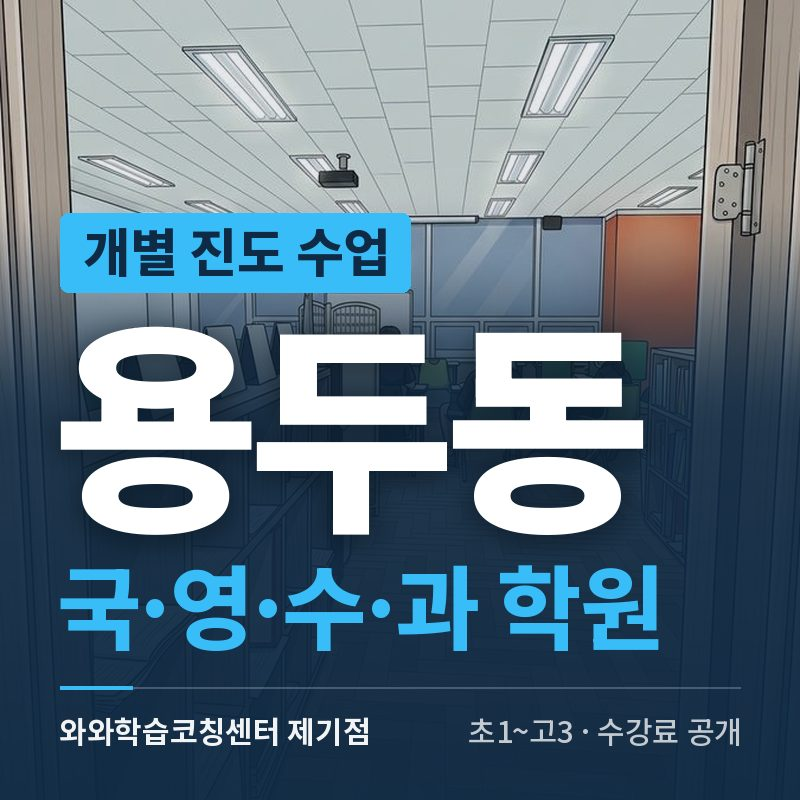
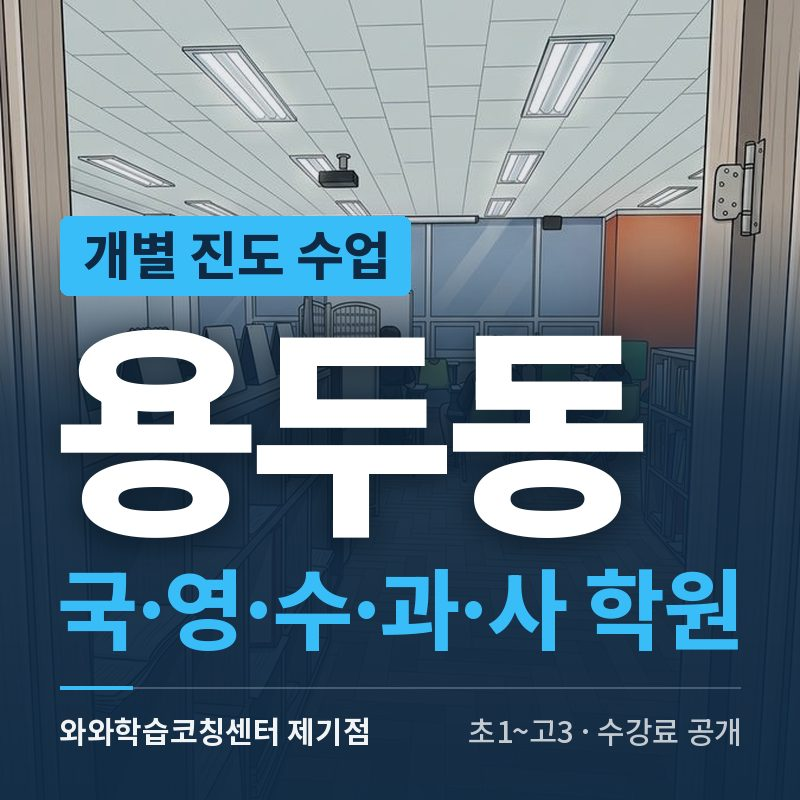
썸네일 시험 배너 7장을 10-27 지점 데이터에 맞춤 — 두호동·광명동 학년 고3 → 고2 등
- 10-27 기준본 갱신(학년·과목 14곳) 뒤 시험군 배너 7장이 기준본과 어긋났다
  · 두호동(두호점)·광명동(광명점): 학년 초4~고3·초1~고3 → 초4~고2·초1~고2 (배너가 없는 학년을 적고 있었음)
  · 마곡동·상동·운양동·용두동: 기준본에 과목이 늘어 과목 줄 갱신 / 신정동: 학년 초4~고3 → 초1~고3
- 시험군·비교군 배정은 그대로(_thumb_test.json), 나머지 81장 그림은 바이트까지 같음
- _thumb_test.js: 이미 배너가 있는 페이지도 다시 돌리면 배너 img 한 줄(alt)만 새로 바꿈, 이름 바뀐 지점은 기준본 aliases 로 찾음

diff --git a/seoul/gangseo/dong/마곡동/index.html b/seoul/gangseo/dong/마곡동/index.html
@@ -207,7 +207,7 @@
   </table><div class="fee-legal"><span><b>내발산점</b> 내발산점와와학습코칭학원(강서양천교육지원청 등록 제 5444호)</span><span>1회 수업 시간: 초등 90분, 중등 90분, 고등 90분</span><span><a class="fee-doc-link" href="https://drive.google.com/file/d/11YzP9rk79EIe6Vi8gsQaz05Yz73kROaA/view?usp=sharing" target="_blank" rel="noopener" style="color:#0369A1;font-weight:700;text-decoration:none;">교습비 공시 자료</a> · <a href="../../naebalsan/#fee" style="color:#0369A1;font-weight:700;text-decoration:none;">내발산점 수강료 안내</a></span></div><div class="fee-legal"><span><b>신방화점</b> 신방화점와와학습코칭학원(강서양천교육지원청 등록 제 5879호)</span><span>1회 수업 시간: 초등 90분, 중등 90분, 고등 90분</span><span><a class="fee-doc-link" href="https://drive.google.com/file/d/1ZQGHf_JiGE50Qks_3e4jTCpL2f_r-PvP/view?usp=sharing" target="_blank" rel="noopener" style="color:#0369A1;font-weight:700;text-decoration:none;">교습비 공시 자료</a> · <a href="../../sinbanghwa/#fee" style="color:#0369A1;font-weight:700;text-decoration:none;">신방화점 수강료 안내</a></span></div></div></section>
 
 <!-- 하단 CTA: 한 번 더 -->
-<!-- WAWA_ILLUST_START --><section style="max-width:960px;margin:0 auto;padding:8px 20px 26px;"><img src="https://wcoachingcenter.com/assets/banner/seoul-gangseo-%EB%A7%88%EA%B3%A1%EB%8F%99.jpg" alt="마곡동 영어·수학·사회 학원 와와학습코칭센터 신방화점 개별 진도 수업 안내 (초1~고3 · 수강료 공개)" width="800" height="800" loading="lazy" style="width:100%;max-width:420px;border-radius:14px;display:block;margin:0 auto;"></section><!-- WAWA_ILLUST_END -->
+<!-- WAWA_ILLUST_START --><section style="max-width:960px;margin:0 auto;padding:8px 20px 26px;"><img src="https://wcoachingcenter.com/assets/banner/seoul-gangseo-%EB%A7%88%EA%B3%A1%EB%8F%99.jpg" alt="마곡동 국어·영어·수학·과학·사회 학원 와와학습코칭센터 신방화점 개별 진도 수업 안내 (초1~고3 · 수강료 공개)" width="800" height="800" loading="lazy" style="width:100%;max-width:420px;border-radius:14px;display:block;margin:0 auto;"></section><!-- WAWA_ILLUST_END -->
 <section style="background:linear-gradient(135deg,#0369A1,#075985);padding:40px 20px;text-align:center;color:#fff;">
   <h3 style="font-size:22px;font-weight:900;margin-bottom:10px;text-wrap:balance;word-break:keep-all;">마곡동에서 와와학습코칭센터를 만나보세요</h3>
   <p style="font-size:14px;opacity:0.9;margin-bottom:20px;text-wrap:balance;word-break:keep-all;">학습 진단부터 학교 시험 대비까지 무료 상담으로 안내해 드립니다.</p>

diff --git a/gyeonggi/bucheon/dong/상동/index.html b/gyeonggi/bucheon/dong/상동/index.html
@@ -207,7 +207,7 @@
   </table><div class="fee-legal"><span><b>반달점</b> 반달점와와학습코칭보습학원(부천교육지원청 등록 제6730호)</span><span>1회 수업 시간: 초등 85분, 중등 80분, 고등 80분</span><span><a class="fee-doc-link" href="https://drive.google.com/file/d/1xQiE1pOWaG1w2Xf0REQTXDaMuoiIe8OI/view?usp=sharing" target="_blank" rel="noopener" style="color:#0369A1;font-weight:700;text-decoration:none;">교습비 공시 자료</a> · <a href="../../bandal/#fee" style="color:#0369A1;font-weight:700;text-decoration:none;">반달점 수강료 안내</a></span></div><div class="fee-legal"><span><b>상동점</b> 와와학습코칭상동보습학원(부천교육지원청 등록 제5950호)</span><span>1회 수업 시간: 초등 75분, 중등 75분, 고등 75분</span><span><a class="fee-doc-link" href="https://drive.google.com/file/d/1yst4sIxuIJJrqJRlxcIsu52h8D3xsPIC/view?usp=drive_link" target="_blank" rel="noopener" style="color:#0369A1;font-weight:700;text-decoration:none;">교습비 공시 자료</a> · <a href="../../sangdong/#fee" style="color:#0369A1;font-weight:700;text-decoration:none;">상동점 수강료 안내</a></span></div></div></section>
 
 <!-- 하단 CTA: 한 번 더 -->
-<!-- WAWA_ILLUST_START --><section style="max-width:960px;margin:0 auto;padding:8px 20px 26px;"><img src="https://wcoachingcenter.com/assets/banner/gyeonggi-bucheon-%EC%83%81%EB%8F%99.jpg" alt="상동 영어·수학·과학 학원 와와학습코칭센터 반달점 개별 진도 수업 안내 (초1~고2 · 수강료 공개)" width="800" height="800" loading="lazy" style="width:100%;max-width:420px;border-radius:14px;display:block;margin:0 auto;"></section><!-- WAWA_ILLUST_END -->
+<!-- WAWA_ILLUST_START --><section style="max-width:960px;margin:0 auto;padding:8px 20px 26px;"><img src="https://wcoachingcenter.com/assets/banner/gyeonggi-bucheon-%EC%83%81%EB%8F%99.jpg" alt="상동 국어·영어·수학·과학 학원 와와학습코칭센터 반달점 개별 진도 수업 안내 (초1~고2 · 수강료 공개)" width="800" height="800" loading="lazy" style="width:100%;max-width:420px;border-radius:14px;display:block;margin:0 auto;"></section><!-- WAWA_ILLUST_END -->
 <section style="background:linear-gradient(135deg,#0369A1,#075985);padding:40px 20px;text-align:center;color:#fff;">
   <h3 style="font-size:22px;font-weight:900;margin-bottom:10px;text-wrap:balance;word-break:keep-all;">상동에서 와와학습코칭센터를 만나보세요</h3>
   <p style="font-size:14px;opacity:0.9;margin-bottom:20px;text-wrap:balance;word-break:keep-all;">학습 진단부터 학교 시험 대비까지 무료 상담으로 안내해 드립니다.</p>

diff --git a/_thumb_test.js b/_thumb_test.js
@@ -51,7 +51,8 @@ function readFacts(p) {
   const html = fs.readFileSync(path.join(ROOT, p.rel, 'index.html'), 'utf8');
   const title = (html.match(/<title>([^<]*)<\/title>/) || [])[1] || '';
   const branch = (title.match(/와와학습코칭센터\s+(\S+점)\s*$/) || [])[1] || '';
-  const src = BRANCHES[branch];
+  // 이름이 바뀐 지점은 기준본 aliases 로 찾는다(2026-10-27 마포2호점 → 마포점)
+  const src = BRANCHES[branch] || Object.values(BRANCHES).find((b) => (b.aliases || []).includes(branch));
   const pageLine = (html.match(/<div class="info-label">수강 가능 과목<\/div>\s*<div class="info-value">([^<]*)<\/div>/) || [])[1] || '';
   const pageSubj = SUBJ_ORDER.filter((s) => pageLine.includes(s));
   const subjects = src ? SUBJ_ORDER.filter((s) => (src.subjects || []).includes(s) && (!pageSubj.length || pageSubj.includes(s))) : [];
@@ -119,10 +120,17 @@ function apply(repo) {
     const f = path.join(repo, t.rel, 'index.html');
     if (!fs.existsSync(f)) { miss.push(t.rel + ' (파일 없음)'); continue; }
     let html = fs.readFileSync(f, 'utf8');
-    if (html.includes('assets/banner/')) continue; // 이미 적용됨(다시 돌려도 그대로)
     // 한글 파일 이름은 퍼센트 인코딩해서 넣는다 — GitHub Pages 는 인코딩 안 된 UTF-8 경로 요청에 400 을 준다(배포 전 검수에서 실측)
     const url = encodeURI(`${DOMAIN}/${t.banner}`);
     const img = `<img src="${url}" alt="${t.text.alt}" width="800" height="800" loading="lazy" style="width:100%;max-width:420px;border-radius:14px;display:block;margin:0 auto;">`;
+    if (html.includes('assets/banner/')) {
+      // 이미 적용된 페이지는 배너 img 한 줄만 새 alt 로 바꾼다(기준본 과목·학년이 바뀌어 다시 돌릴 때 — 2026-10-27 지점 데이터 갱신 뒤 7장)
+      const re = new RegExp(`<img src="${url.replace(/[.*+?^${}()|[\]\\]/g, '\\$&')}"[^>]*>`);
+      if (!re.test(html)) { miss.push(t.rel + ' (배너 줄 못 찾음)'); continue; }
+      const next = html.replace(re, img);
+      if (next !== html) { fs.writeFileSync(f, next, 'utf8'); n++; }
+      continue;
+    }
     const before = html;
     html = html.replace(/(<!-- WAWA_ILLUST_START -->[\s\S]*?)<img [^>]*>([\s\S]*?<!-- WAWA_ILLUST_END -->)/, `$1${img}$2`);
     html = html.replace(/<meta property="og:image" content="[^"]*">/, `<meta property="og:image" content="${url}">\n<meta property="og:image:width" content="800">\n<meta property="og:image:height" content="800">`);

diff --git a/seoul/dongdaemun/dong/용두동/index.html b/seoul/dongdaemun/dong/용두동/index.html
@@ -183,7 +183,7 @@
   </table><div class="fee-legal"><span><b>제기점</b> 제기와와학습코칭학원(서울동부교육지원청 등록 제 3066호)</span><span>1회 수업 시간: 초등 105분, 중등 100분, 고등 105분</span><span><a class="fee-doc-link" href="https://drive.google.com/file/d/1HMDq2VEK8bG03OKmK1A3iDGqshrc34_F/view?usp=sharing" target="_blank" rel="noopener" style="color:#0369A1;font-weight:700;text-decoration:none;">교습비 공시 자료</a> · <a href="../../jegi/#fee" style="color:#0369A1;font-weight:700;text-decoration:none;">제기점 수강료 안내</a></span></div></div></section>
 
 <!-- 하단 CTA: 한 번 더 -->
-<!-- WAWA_ILLUST_START --><section style="max-width:960px;margin:0 auto;padding:8px 20px 26px;"><img src="https://wcoachingcenter.com/assets/banner/seoul-dongdaemun-%EC%9A%A9%EB%91%90%EB%8F%99.jpg" alt="용두동 국어·영어·수학·과학 학원 와와학습코칭센터 제기점 개별 진도 수업 안내 (초1~고3 · 수강료 공개)" width="800" height="800" loading="lazy" style="width:100%;max-width:420px;border-radius:14px;display:block;margin:0 auto;"></section><!-- WAWA_ILLUST_END -->
+<!-- WAWA_ILLUST_START --><section style="max-width:960px;margin:0 auto;padding:8px 20px 26px;"><img src="https://wcoachingcenter.com/assets/banner/seoul-dongdaemun-%EC%9A%A9%EB%91%90%EB%8F%99.jpg" alt="용두동 국어·영어·수학·과학·사회 학원 와와학습코칭센터 제기점 개별 진도 수업 안내 (초1~고3 · 수강료 공개)" width="800" height="800" loading="lazy" style="width:100%;max-width:420px;border-radius:14px;display:block;margin:0 auto;"></section><!-- WAWA_ILLUST_END -->
 <section style="background:linear-gradient(135deg,#0369A1,#075985);padding:40px 20px;text-align:center;color:#fff;">
   <h3 style="font-size:22px;font-weight:900;margin-bottom:10px;text-wrap:balance;word-break:keep-all;">용두동에서 와와학습코칭센터를 만나보세요</h3>
   <p style="font-size:14px;opacity:0.9;margin-bottom:20px;text-wrap:balance;word-break:keep-all;">학습 진단부터 학교 시험 대비까지 무료 상담으로 안내해 드립니다.</p>

diff --git a/seoul/yangcheon/dong/신정동/index.html b/seoul/yangcheon/dong/신정동/index.html
@@ -184,7 +184,7 @@
   </table><div class="fee-legal"><span><b>목동점</b> 와와학습코칭학원(강서양천교육지원청 등록 제 5353호)</span><span>1회 수업 시간: 초등 90분, 중등 90분, 고등 90분</span><span><a class="fee-doc-link" href="https://drive.google.com/file/d/10mbexM9fWTyZMaKKfMkY_WMxifGqU9e5/view?usp=sharing" target="_blank" rel="noopener" style="color:#0369A1;font-weight:700;text-decoration:none;">교습비 공시 자료</a> · <a href="../../mogdong/#fee" style="color:#0369A1;font-weight:700;text-decoration:none;">목동점 수강료 안내</a></span></div></div></section>
 
 <!-- 하단 CTA: 한 번 더 -->
-<!-- WAWA_ILLUST_START --><section style="max-width:960px;margin:0 auto;padding:8px 20px 26px;"><img src="https://wcoachingcenter.com/assets/banner/seoul-yangcheon-%EC%8B%A0%EC%A0%95%EB%8F%99.jpg" alt="신정동 국어·영어·수학·과학·사회 학원 와와학습코칭센터 목동점 개별 진도 수업 안내 (초4~고3 · 수강료 공개)" width="800" height="800" loading="lazy" style="width:100%;max-width:420px;border-radius:14px;display:block;margin:0 auto;"></section><!-- WAWA_ILLUST_END -->
+<!-- WAWA_ILLUST_START --><section style="max-width:960px;margin:0 auto;padding:8px 20px 26px;"><img src="https://wcoachingcenter.com/assets/banner/seoul-yangcheon-%EC%8B%A0%EC%A0%95%EB%8F%99.jpg" alt="신정동 국어·영어·수학·과학·사회 학원 와와학습코칭센터 목동점 개별 진도 수업 안내 (초1~고3 · 수강료 공개)" width="800" height="800" loading="lazy" style="width:100%;max-width:420px;border-radius:14px;display:block;margin:0 auto;"></section><!-- WAWA_ILLUST_END -->
 <section style="background:linear-gradient(135deg,#0369A1,#075985);padding:40px 20px;text-align:center;color:#fff;">
   <h3 style="font-size:22px;font-weight:900;margin-bottom:10px;text-wrap:balance;word-break:keep-all;">신정동에서 와와학습코칭센터를 만나보세요</h3>
   <p style="font-size:14px;opacity:0.9;margin-bottom:20px;text-wrap:balance;word-break:keep-all;">학습 진단부터 학교 시험 대비까지 무료 상담으로 안내해 드립니다.</p>

diff --git a/gyeonggi/gwangmyeong/dong/광명동/index.html b/gyeonggi/gwangmyeong/dong/광명동/index.html
@@ -184,7 +184,7 @@
   </table><div class="fee-legal"><span><b>광명점</b> 광명점와와학습코칭학원(광명교육지원청 등록 제1964호)</span><span>1회 수업 시간: 초등 90분, 중등 90분, 고등 90분</span><span><a class="fee-doc-link" href="https://drive.google.com/file/d/1Pt3inny9xAm_cD5VbQdxgSFBoA3sIibW/view?usp=sharing" target="_blank" rel="noopener" style="color:#0369A1;font-weight:700;text-decoration:none;">교습비 공시 자료</a> · <a href="../../gwangmyeong/#fee" style="color:#0369A1;font-weight:700;text-decoration:none;">광명점 수강료 안내</a></span></div></div></section>
 
 <!-- 하단 CTA: 한 번 더 -->
-<!-- WAWA_ILLUST_START --><section style="max-width:960px;margin:0 auto;padding:8px 20px 26px;"><img src="https://wcoachingcenter.com/assets/banner/gyeonggi-gwangmyeong-%EA%B4%91%EB%AA%85%EB%8F%99.jpg" alt="광명동 국어·영어·수학 학원 와와학습코칭센터 광명점 개별 진도 수업 안내 (초1~고3 · 수강료 공개)" width="800" height="800" loading="lazy" style="width:100%;max-width:420px;border-radius:14px;display:block;margin:0 auto;"></section><!-- WAWA_ILLUST_END -->
+<!-- WAWA_ILLUST_START --><section style="max-width:960px;margin:0 auto;padding:8px 20px 26px;"><img src="https://wcoachingcenter.com/assets/banner/gyeonggi-gwangmyeong-%EA%B4%91%EB%AA%85%EB%8F%99.jpg" alt="광명동 국어·영어·수학 학원 와와학습코칭센터 광명점 개별 진도 수업 안내 (초1~고2 · 수강료 공개)" width="800" height="800" loading="lazy" style="width:100%;max-width:420px;border-radius:14px;display:block;margin:0 auto;"></section><!-- WAWA_ILLUST_END -->
 <section style="background:linear-gradient(135deg,#0369A1,#075985);padding:40px 20px;text-align:center;color:#fff;">
   <h3 style="font-size:22px;font-weight:900;margin-bottom:10px;text-wrap:balance;word-break:keep-all;">광명동에서 와와학습코칭센터를 만나보세요</h3>
   <p style="font-size:14px;opacity:0.9;margin-bottom:20px;text-wrap:balance;word-break:keep-all;">학습 진단부터 학교 시험 대비까지 무료 상담으로 안내해 드립니다.</p>

diff --git a/gyeonggi/gimpo/dong/운양동/index.html b/gyeonggi/gimpo/dong/운양동/index.html
@@ -183,7 +183,7 @@
   </table><div class="fee-legal"><span><b>운양점</b> 운양점와와학습코칭학원(김포교육지원청 등록 제1913호)</span><span>1회 수업 시간: 초등 100분, 중등 100분, 고등 100분</span><span><a class="fee-doc-link" href="https://drive.google.com/file/d/17Ds4hHMgM8WCVt6Uj-uSJb4P-rwC7Fgv/view?usp=sharing" target="_blank" rel="noopener" style="color:#0369A1;font-weight:700;text-decoration:none;">교습비 공시 자료</a> · <a href="../../unyang/#fee" style="color:#0369A1;font-weight:700;text-decoration:none;">운양점 수강료 안내</a></span></div></div></section>
 
 <!-- 하단 CTA: 한 번 더 -->
-<!-- WAWA_ILLUST_START --><section style="max-width:960px;margin:0 auto;padding:8px 20px 26px;"><img src="https://wcoachingcenter.com/assets/banner/gyeonggi-gimpo-%EC%9A%B4%EC%96%91%EB%8F%99.jpg" alt="운양동 수학 학원 와와학습코칭센터 운양점 개별 진도 수업 안내 (초4~고2 · 수강료 공개)" width="800" height="800" loading="lazy" style="width:100%;max-width:420px;border-radius:14px;display:block;margin:0 auto;"></section><!-- WAWA_ILLUST_END -->
+<!-- WAWA_ILLUST_START --><section style="max-width:960px;margin:0 auto;padding:8px 20px 26px;"><img src="https://wcoachingcenter.com/assets/banner/gyeonggi-gimpo-%EC%9A%B4%EC%96%91%EB%8F%99.jpg" alt="운양동 국어·영어·수학 학원 와와학습코칭센터 운양점 개별 진도 수업 안내 (초4~고2 · 수강료 공개)" width="800" height="800" loading="lazy" style="width:100%;max-width:420px;border-radius:14px;display:block;margin:0 auto;"></section><!-- WAWA_ILLUST_END -->
 <section style="background:linear-gradient(135deg,#0369A1,#075985);padding:40px 20px;text-align:center;color:#fff;">
   <h3 style="font-size:22px;font-weight:900;margin-bottom:10px;text-wrap:balance;word-break:keep-all;">운양동에서 와와학습코칭센터를 만나보세요</h3>
   <p style="font-size:14px;opacity:0.9;margin-bottom:20px;text-wrap:balance;word-break:keep-all;">학습 진단부터 학교 시험 대비까지 무료 상담으로 안내해 드립니다.</p>

diff --git a/gyeongbuk/pohang/dong/두호동/index.html b/gyeongbuk/pohang/dong/두호동/index.html
@@ -183,7 +183,7 @@
   </table><div class="fee-legal"><span><b>두호점</b> 와와학습코칭센터학원(포항교육지원청 등록 제2124호)</span><span>1회 수업 시간: 초등 90분, 중등 90분, 고등 90분</span><span><a class="fee-doc-link" href="https://drive.google.com/file/d/1E8_BXUI1HRi14NzBNb90Uauq8wJnRm8H/view?usp=sharing" target="_blank" rel="noopener" style="color:#0369A1;font-weight:700;text-decoration:none;">교습비 공시 자료</a> · <a href="../../duho/#fee" style="color:#0369A1;font-weight:700;text-decoration:none;">두호점 수강료 안내</a></span></div></div></section>
 
 <!-- 하단 CTA: 한 번 더 -->
-<!-- WAWA_ILLUST_START --><section style="max-width:960px;margin:0 auto;padding:8px 20px 26px;"><img src="https://wcoachingcenter.com/assets/banner/gyeongbuk-pohang-%EB%91%90%ED%98%B8%EB%8F%99.jpg" alt="두호동 영어·수학 학원 와와학습코칭센터 두호점 개별 진도 수업 안내 (초4~고3 · 수강료 공개)" width="800" height="800" loading="lazy" style="width:100%;max-width:420px;border-radius:14px;display:block;margin:0 auto;"></section><!-- WAWA_ILLUST_END -->
+<!-- WAWA_ILLUST_START --><section style="max-width:960px;margin:0 auto;padding:8px 20px 26px;"><img src="https://wcoachingcenter.com/assets/banner/gyeongbuk-pohang-%EB%91%90%ED%98%B8%EB%8F%99.jpg" alt="두호동 영어·수학 학원 와와학습코칭센터 두호점 개별 진도 수업 안내 (초4~고2 · 수강료 공개)" width="800" height="800" loading="lazy" style="width:100%;max-width:420px;border-radius:14px;display:block;margin:0 auto;"></section><!-- WAWA_ILLUST_END -->
 <section style="background:linear-gradient(135deg,#0369A1,#075985);padding:40px 20px;text-align:center;color:#fff;">
   <h3 style="font-size:22px;font-weight:900;margin-bottom:10px;text-wrap:balance;word-break:keep-all;">두호동에서 와와학습코칭센터를 만나보세요</h3>
   <p style="font-size:14px;opacity:0.9;margin-bottom:20px;text-wrap:balance;word-break:keep-all;">학습 진단부터 학교 시험 대비까지 무료 상담으로 안내해 드립니다.</p>
